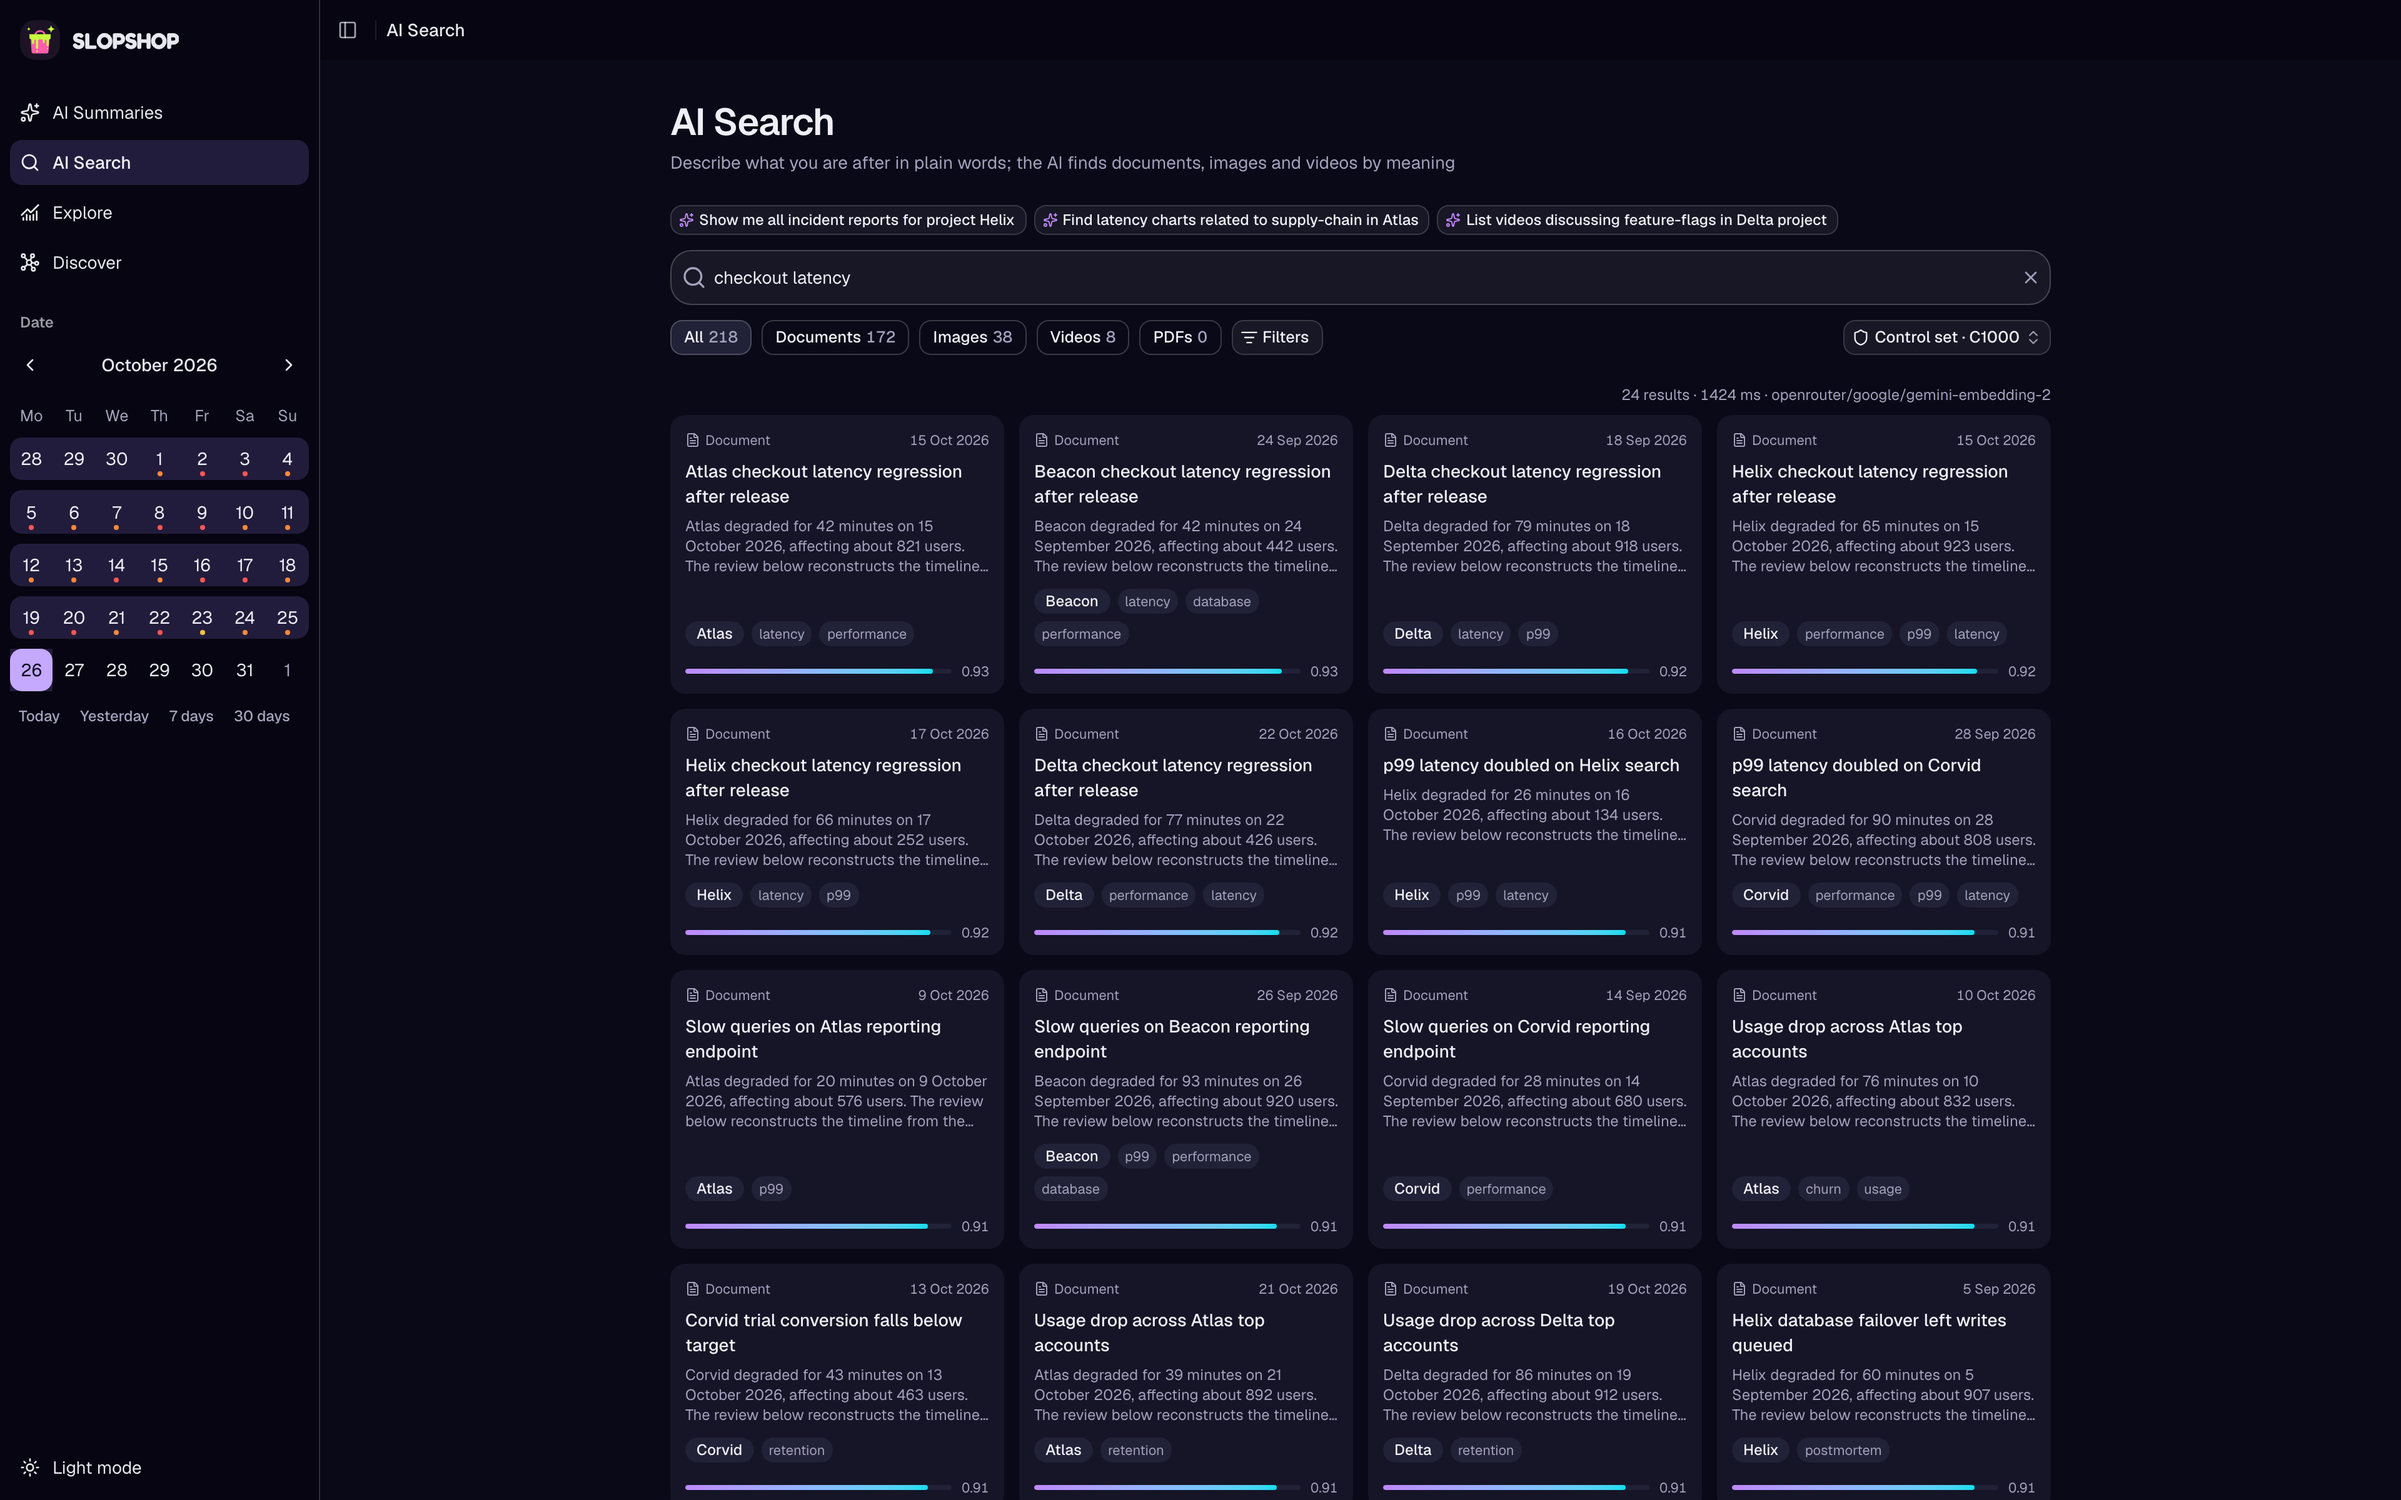
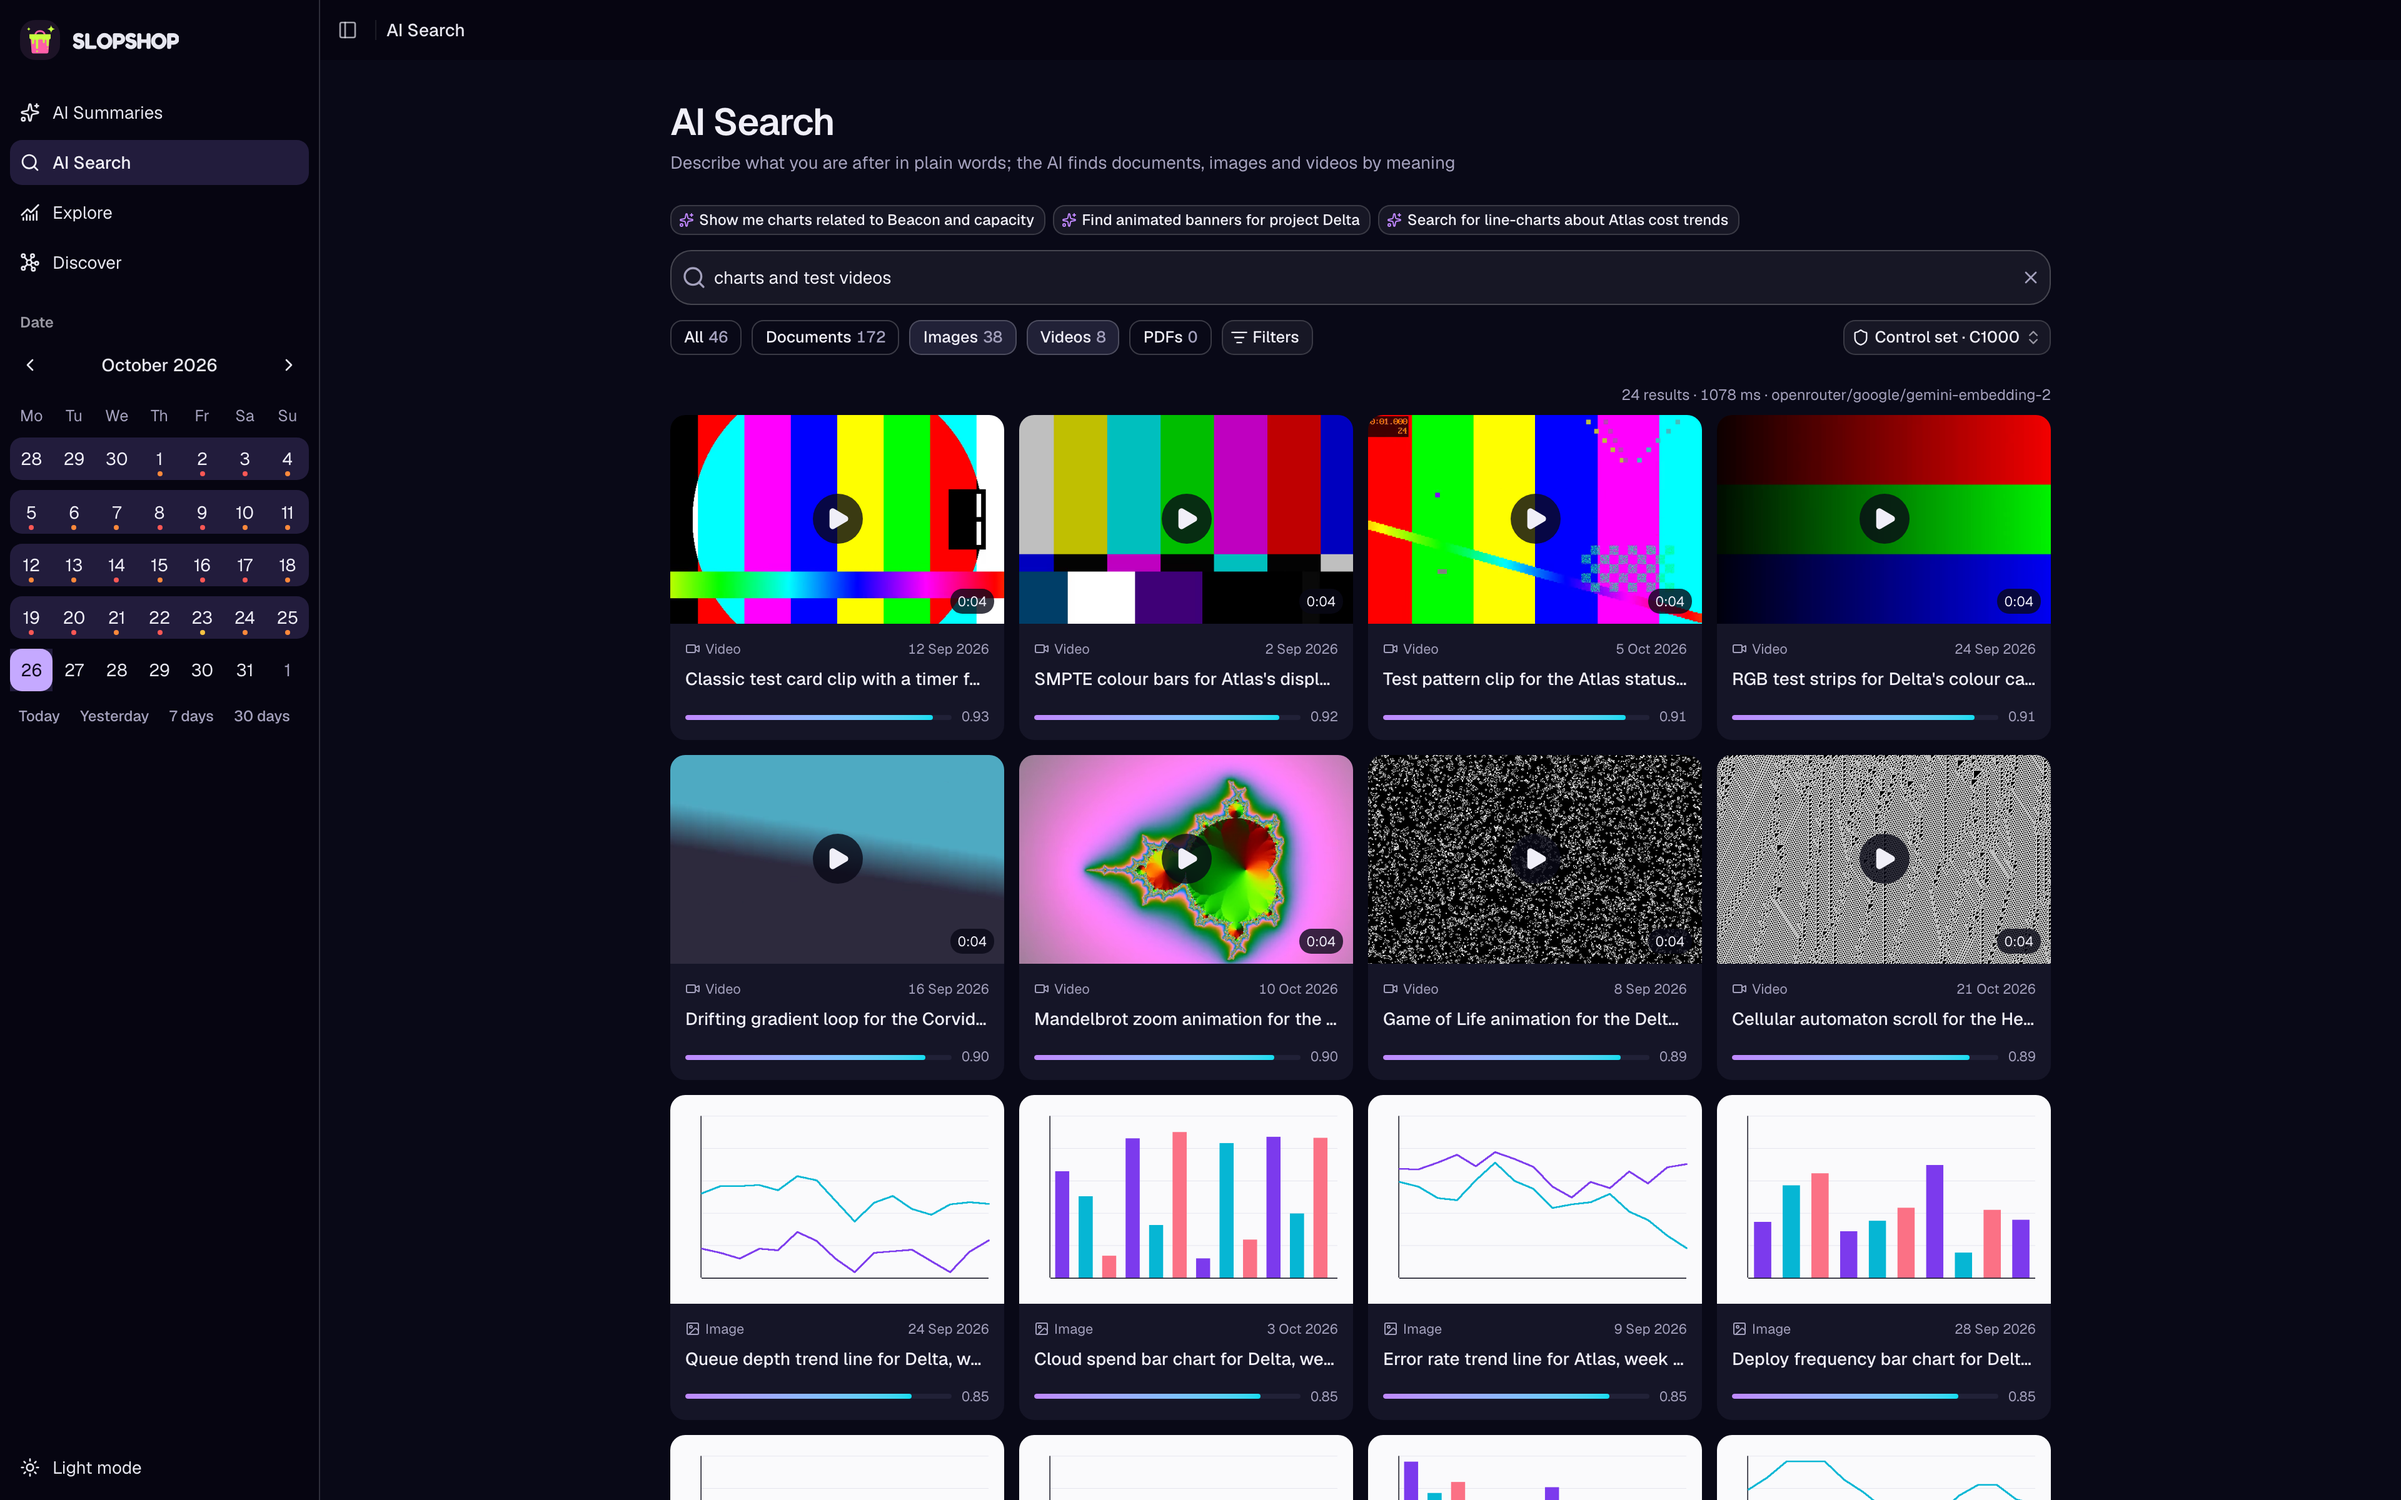
Tab title: SLOPSHOP with the page's name; the AI Search screenshot shows media
The document title is SLOPSHOP on its own and "SLOPSHOP · <page>" on every
page, each page naming itself in its metadata (AI Summaries, AI Search,
Explore, Discover, Report, Document). The AI Search screenshot now shows a
search narrowed to images and videos, so the media cards are in it.

Changed region(s): [[0.2812, 0.1875, 0.875, 1.0], [0.3438, 0.125, 0.75, 0.1562], [0.3125, 0.1562, 0.3438, 0.1875]]

diff --git a/app/layout.tsx b/app/layout.tsx
@@ -16,8 +16,11 @@ const fredoka = localFont({
   display: "swap",
 });
 
+/** The tab reads SLOPSHOP on its own and "SLOPSHOP · <page>" on every page
+ *  that names itself. */
 export const metadata: Metadata = {
-  title: "Slopshop",
+  title: { default: "SLOPSHOP", template: "SLOPSHOP · %s" },
+
   description: "Slopshop: review AI summaries by date, severity, project and topic, and search documents, images and videos by meaning",
 
 };

diff --git a/app/(app)/search/page.tsx b/app/(app)/search/page.tsx
@@ -1,5 +1,8 @@
+import type { Metadata } from "next";
 import { SearchView } from "@/components/search/search-view";
 import { Suspense } from "react";
+
+export const metadata: Metadata = { title: "AI Search" };
 
 /** The semantic search page. The view reads the URL, so it renders inside
  *  Suspense and the shell streams around it. */

diff --git a/app/(app)/topics/page.tsx b/app/(app)/topics/page.tsx
@@ -1,5 +1,8 @@
+import type { Metadata } from "next";
 import { TopicsView } from "@/components/topics/topics-view";
 import { Suspense } from "react";
+
+export const metadata: Metadata = { title: "Explore" };
 
 /** The topic discovery page. The view reads the URL, so it renders inside
  *  Suspense and the shell streams around it. */

diff --git a/app/(app)/graph/page.tsx b/app/(app)/graph/page.tsx
@@ -1,5 +1,8 @@
+import type { Metadata } from "next";
 import { GraphView } from "@/components/graph/graph-view";
 import { Suspense } from "react";
+
+export const metadata: Metadata = { title: "Discover" };
 
 /** The topic graph page. The view reads the URL, so it renders inside
  *  Suspense and the shell streams around it. */

diff --git a/app/(app)/summaries/page.tsx b/app/(app)/summaries/page.tsx
@@ -1,5 +1,8 @@
+import type { Metadata } from "next";
 import { SummariesView } from "@/components/summaries/summaries-view";
 import { Suspense } from "react";
+
+export const metadata: Metadata = { title: "AI Summaries" };
 
 export default function SummariesPage() {
   return (

diff --git a/app/(share)/summaries/[id]/page.tsx b/app/(share)/summaries/[id]/page.tsx
@@ -1,5 +1,8 @@
+import type { Metadata } from "next";
 import { SummaryPage } from "@/components/summaries/summary-report";
 import { Suspense } from "react";
+
+export const metadata: Metadata = { title: "Report" };
 
 export default function Page() {
   return (

diff --git a/app/(share)/documents/[id]/page.tsx b/app/(share)/documents/[id]/page.tsx
@@ -1,5 +1,8 @@
+import type { Metadata } from "next";
 import { DocumentPage } from "@/components/search/document-view";
 import { Suspense } from "react";
+
+export const metadata: Metadata = { title: "Document" };
 
 export default function Page() {
   return (

diff --git a/AGENTS.md b/AGENTS.md
@@ -34,6 +34,8 @@ token; the UI talks to the gateway. The gateway's CORS allowlist includes
 | Path | What it holds |
 |---|---|
 | `app/page.tsx` | redirects to `/summaries` (`instant = false`: a redirect has nothing to validate) |
+| `app/layout.tsx` (metadata) | the tab title: `SLOPSHOP` alone, `SLOPSHOP · <page>` on every page, each page naming itself in its `metadata` (AI Summaries, AI Search, Explore, Discover, Report, Document) |
+
 | `app/(app)/layout.tsx` | `SidebarProvider` → one `Suspense` → `AppSidebar` + `AppShell`; every client component reading the URL sits under it (`cacheComponents`) |
 | `app/(app)/graph/` | the topic graph page |
 | `app/(app)/summaries/page.tsx` | `<Suspense><SummariesView/></Suspense>` |

diff --git a/README.md b/README.md
@@ -24,5 +24,5 @@ Taken against the seeded local stack at 1920×1200, in dark mode; every one is i
 |---|---|
 | **AI Summaries**: the filter rail, the streamed digest and the grouped table | ![AI Summaries](docs/summaries.png) |
 | **A report**: the full-screen view, its header badges linking to the filtered summaries and to Explore | ![Summary report](docs/summary-report.png) |
-| **AI Search**: suggested searches, kind counts, filters and the results | ![AI Search](docs/ai-search.png) |
+| **AI Search**: suggested searches, kind counts, filters, and image and video results | ![AI Search](docs/ai-search.png) |
 | **Discover**: topics in clusters, tags beside them, and a topic's panel | ![Discover](docs/discover.png) |
